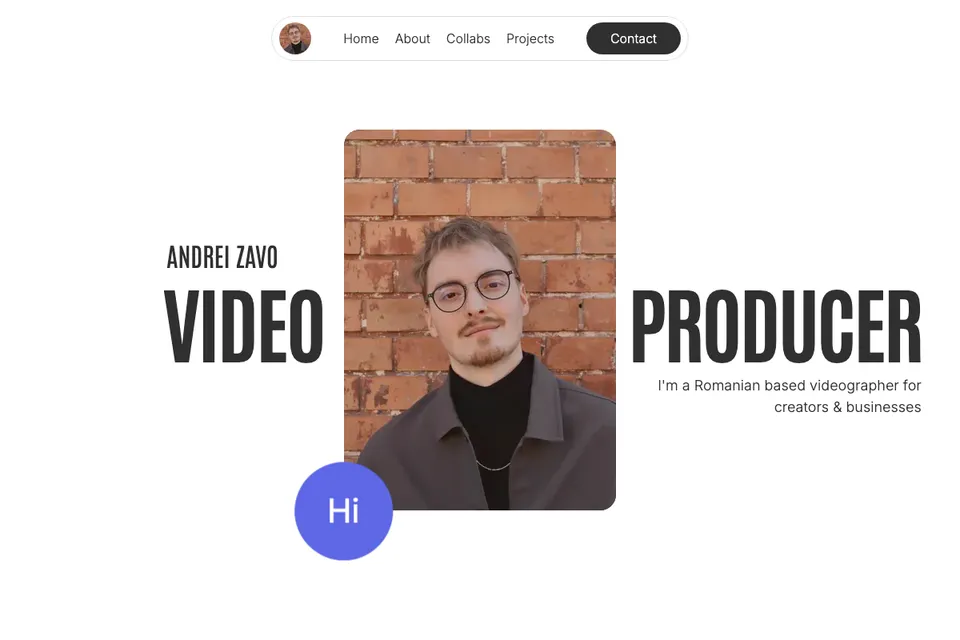
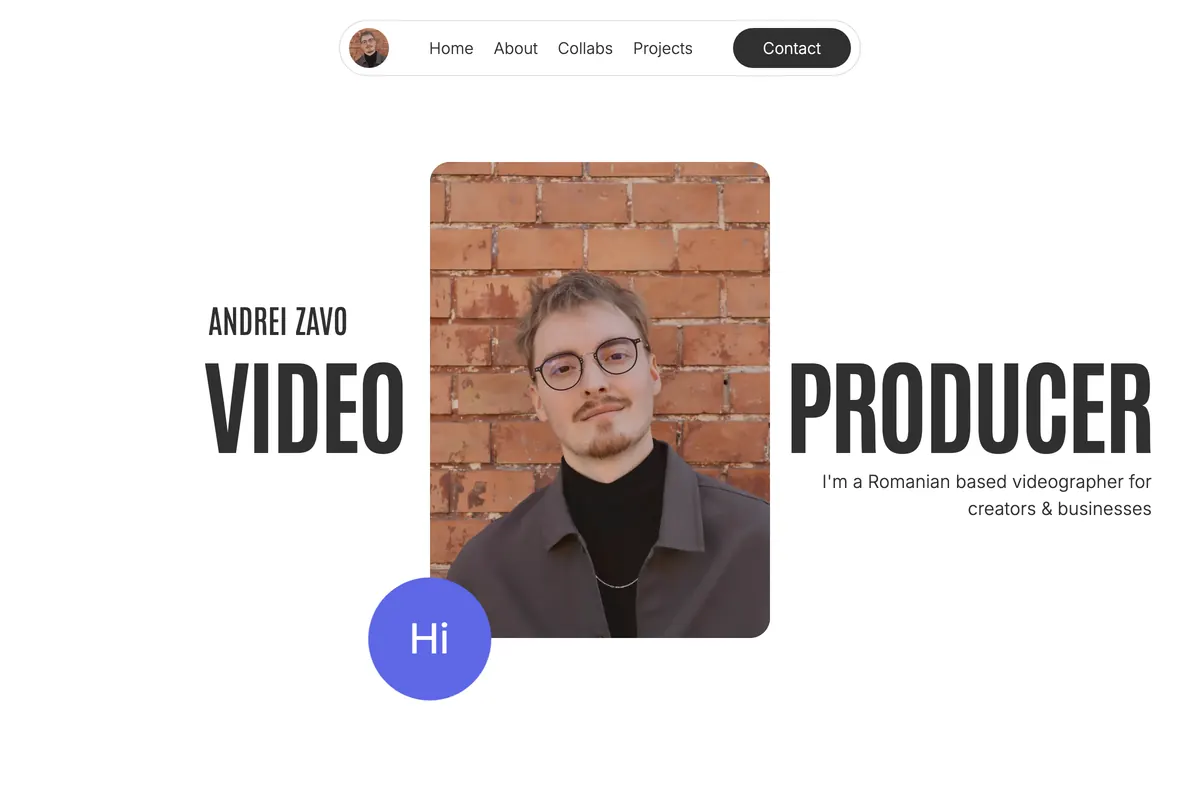
docs: much shorter README with a screenshot layout

diff --git a/README.md b/README.md
@@ -1,145 +1,63 @@
 # zavocreates.com
 
-Andrei Zavo's videographer portfolio, rebuilt from a Framer site into code: an Astro static site served by one Cloudflare Worker, with a contact form that checks for spam with Turnstile and labels each enquiry with a Workers AI model before emailing it.
+Andrei Zavo's videographer portfolio, moved from Framer to code by AI agents (Claude Code) and checked against the original site with tests.
 
-The work was done by AI agents (Claude Code) from a written spec and plan, and checked by tests that compare against the original Framer site. This README explains what was built, how the AI output was verified, and what is still open.
+**Live:** [zavocreates.com](https://zavocreates.com) · **Stack:** Astro, one Cloudflare Worker, Turnstile, Workers AI, Resend
 
-## Problem and result
+<table>
+  <tr>
+    <td width="70%"><img src="docs/img/home-desktop.webp" alt="Home page on desktop: the name Andrei Zavo, the words Video Producer and a portrait"></td>
+    <td width="30%"><img src="docs/img/home-phone.webp" alt="Home page on a phone"></td>
+  </tr>
+</table>
 
-**Problem.** The site is three pages (`/`, `/pricing`, `/pricing-ro`) on a paid Framer plan. Andrei wanted the same look and motion, free hosting, and a contact form that does not depend on Framer.
+## Results
 
-**Result.** The rebuild is live at https://zavocreates.com since 2026-11-12, tested locally, in CI and against the live domain. Remaining go-live steps are in the [go-live checklist](docs/go-live.md).
-
-- Same pages, text and animations as the Framer site. Every animation value is taken from the Framer project and checked by unit tests; the pages are compared with screenshots of the live site in their settled state, with moving parts hidden. Animations are not compared frame by frame.
-- Lighthouse category scores equal to or higher than Framer's on every page and preset, and 28% to 46% less data transferred per page load ([docs/results](docs/results/README.md)).
-- Contact form with Turnstile, AI triage and email delivery. Without JavaScript the form shows the email address and phone number instead.
-
-### Cost
-
-| | Before | After |
+| | Framer | Now |
 | --- | --- | --- |
-| Site | Framer plan: $15 a month ($180 a year) | 0: free plans only (below) |
-| Domain | renewal at GoDaddy | unchanged |
+| Hosting cost | $15 a month | **$0** (free plans only) |
+| Lighthouse performance, mobile `/` | 82 | **94** |
+| Lighthouse accessibility, `/` and `/pricing` | 92 and 89 | **100** |
+| Data per page load, mobile `/` | 1.90 MiB | **1.36 MiB** |
 
-Free plans used after the move:
+Same pages, text and animations as the Framer site. Full Lighthouse data: [docs/results](docs/results/README.md).
 
-- Cloudflare Workers Free (site and `/api/contact`)
-- Workers AI free daily allowance (triage)
-- Cloudflare Turnstile (spam check)
-- Cloudflare DNS Free plan
-- Cloudflare Web Analytics (cookieless)
-- Resend free tier, 3,000 emails a month and 100 a day (email delivery)
-- GitHub Actions, free for public repositories, including the macOS job
+<table>
+  <tr>
+    <td><img src="docs/img/projects-desktop.webp" alt="Featured projects section"></td>
+    <td><img src="docs/img/pricing-desktop.webp" alt="Pricing page with four packages"></td>
+  </tr>
+  <tr>
+    <td><img src="docs/img/contact-desktop.webp" alt="Contact form"></td>
+    <td align="center"><img src="docs/img/pricing-phone.webp" alt="Romanian pricing page on a phone" width="45%"></td>
+  </tr>
+</table>
 
-### Lighthouse: Framer vs rebuild
+## How it works
 
-Lighthouse 13.6.0, median of 3 runs per page and preset, default simulated throttling. Framer measured on the live site on 2026-11-10, the rebuild on the local Worker preview on 2026-11-11. Full data and method: [docs/results/README.md](docs/results/README.md).
+![Visitor to Cloudflare edge to one Worker, which serves the static site and POST /api/contact (Turnstile, Workers AI, Resend, Gmail). Build: Framer project to content JSON to Astro.](docs/architecture.svg)
 
-| Page | Preset | Site | Perf. | Access. | Best pr. | SEO | FCP | LCP | TBT | CLS |
-| --- | --- | --- | --- | --- | --- | --- | --- | --- | --- | --- |
-| `/` | mobile | Framer | 82 | 92 | 100 | 100 | 1.19 s | 1.19 s | 614 ms | 0.003 |
-| `/` | mobile | rebuild | 94 | 100 | 100 | 100 | 0.92 s | 3.11 s | 0 ms | 0.001 |
-| `/pricing` | mobile | Framer | 93 | 89 | 100 | 100 | 1.18 s | 1.18 s | 295 ms | 0 |
-| `/pricing` | mobile | rebuild | 100 | 100 | 100 | 100 | 0.92 s | 0.92 s | 0 ms | 0 |
-| `/` | desktop | Framer | 100 | 92 | 100 | 100 | 0.50 s | 0.50 s | 12 ms | 0.002 |
-| `/` | desktop | rebuild | 100 | 100 | 100 | 100 | 0.26 s | 0.56 s | 0 ms | 0 |
-| `/pricing` | desktop | Framer | 100 | 89 | 100 | 100 | 0.48 s | 0.48 s | 12 ms | 0 |
-| `/pricing` | desktop | rebuild | 100 | 100 | 100 | 100 | 0.25 s | 0.25 s | 0 ms | 0 |
+- **Content.** Every string, design token and animation value was read from the Framer project, not scraped from its HTML, which contains text visitors never see. It lives in `content/*.json`.
+- **Site.** Astro builds static HTML. Motion and Lenis reproduce Framer's animations. Everything works without JavaScript, and nothing moves under reduced motion.
+- **Contact form.** Turnstile stops bots. A Workers AI model summarises and labels each message. Resend delivers two emails in one Gmail thread: private notes first, then the visitor's message, so a reply quotes only the visitor. Nothing is stored.
 
-One number is worse: LCP on `/` mobile, 3.11 s against Framer's 1.19 s. The 756 KB animated noise GIF (the same file Framer serves) shares bandwidth with the hero portrait in Lighthouse's simulation. The performance score is still higher because blocking time dropped from 614 ms to 0 ms.
+## How the AI's work was checked
 
-Transfer size per page load (mobile): `/` 1.90 MiB on Framer, 1.36 MiB rebuilt; `/pricing` 1.66 MiB on Framer, 0.90 MiB rebuilt.
+- **Visual tests:** 9 screenshots of the live Framer site (3 pages × 3 widths) are compared with the rebuild, with at most 2% of pixels allowed to differ.
+- **Worker tests:** 29 tests of the contact API in the Workers runtime: spam check, missing secrets, bad input, AI failures, email escaping.
+- **Lighthouse budgets in CI:** the build fails if a score drops below Framer's.
+- **Plus:** end-to-end tests (routes, SEO, form, no-JS, reduced motion) and a link check on every pull request.
 
-### Screenshots
-
-Captured from the built site (`npm run preview`).
-
-<p>
-  <img src="docs/img/home-desktop.webp" alt="Home page at desktop width: hero with the name Andrei Zavo, the words Video Producer and a portrait" width="480">
-  <img src="docs/img/pricing-desktop.webp" alt="Pricing page at desktop width: services heading and three numbered reasons" width="480">
-  <img src="docs/img/home-phone.webp" alt="Home page at phone width" width="195">
-</p>
-
-## Architecture
-
-![Request path: visitor, Cloudflare edge, one Worker serving static assets and POST /api/contact, which calls Turnstile, Workers AI and Resend, delivering to Andrei's Gmail. Build path: Framer project read through MCP into content JSON, Astro build into ./dist. CI on GitHub Actions, ubuntu and macOS.](docs/architecture.svg)
-
-- **Build.** `content/*.json` holds every visible string, design token and animation value from the Framer project. Zod schemas validate it during `astro build`, which writes static HTML to `./dist`.
-- **Runtime.** One Worker (`worker/index.ts`) serves `./dist` as static assets and handles `POST /api/contact`: validate the fields, verify the Turnstile token, ask Workers AI for a structured label, send it through Resend as two emails in one Gmail conversation: first private notes (the AI's summary, budget and suggested reply, Reply-To Andrei), then the visitor's message (Reply-To the visitor), threaded under the notes by Message-ID. Gmail's Reply answers the newest email, so a reply quotes only what the visitor wrote. If the AI call fails, only the visitor's message is sent. Messages are never stored.
-- **Motion.** Motion (motion.dev) and Lenis, driven only by `content/motion.json`. Nothing moves under `prefers-reduced-motion: reduce`, and every element is visible without JavaScript. The tablet and phone menu opens with reduced motion too, and without JavaScript it is shown open.
-
-Why each piece was chosen: [docs/decisions.md](docs/decisions.md).
-
-## How AI was used and verified
-
-Claude Code agents implemented the plan in [`docs/superpowers/plans/`](docs/superpowers/plans/2026-11-10-zavocreates-framer-to-cloudflare.md) task by task, from the spec in [`docs/superpowers/specs/`](docs/superpowers/specs/2026-11-10-zavocreates-framer-to-cloudflare-design.md). Each task was reviewed before the next started. Project rules for agents are in [`CLAUDE.md`](CLAUDE.md). The checks below are what makes the output trustworthy, not the agent's own report.
-
-### 1. Content extraction through the Framer MCP connector
-
-An agent read the Framer project with six read-only programs (`docs/extraction/programs/`). Every run reported `changedNodeCount: 0`, so the project was not modified. The raw results are kept in `docs/extraction/raw/`, and `transform.py` turns them into `content/*.json`.
-
-The pitfall: Framer's published HTML contains text visitors never see. On `/pricing-ro`, FAQ 3 reads "Nu prea — voi veniți cu povestea voastră" in the HTML, but a visitor who opens it reads "Nu chiar. Voi veniți cu povestea voastră". Scraping would have shipped the wrong line. `transform.py` reads each string by Framer node id or component control and exits if a node it reads is hidden. Unit tests check that known hidden strings (for example "Interaction design and micro-animations") appear nowhere in `content/`. Details: [docs/extraction/README.md](docs/extraction/README.md).
-
-### 2. Visual regression against the Framer site
-
-Before anything changed, screenshots of the live Framer site were captured for 3 pages at 3 breakpoints (1200, 810 and 390 px wide) and committed to `tests/visual/baseline/`. Each one is scroll-stitched: the page is visited in 900 px steps and each step waits for counters, reveals and sticky images to settle. The rebuild is captured the same way and compared with a maximum of 2% differing pixels. Measured differences when the pages were built: 0.35%, 0.37% and 0.52% for the three home captures, under 0.09% for the six pricing captures. The tolerance was never raised, and the baselines are never regenerated.
-
-### 3. Worker tests
-
-29 tests run in the Workers runtime (`tests/worker/contact.test.ts`) with Workers AI, Turnstile and Resend stubbed. They check these properties:
-
-- A failed Turnstile check returns 403 and makes no AI call and no email call. So does a token issued for another `action` or hostname.
-- A missing `TURNSTILE_SECRET` or `RESEND_API_KEY` returns 503 and logs only the variable name. Cloudflare's Turnstile test secret is refused (503) on any host but localhost.
-- Invalid fields return 400; a body over 20 KB returns 413, including a streamed body without `Content-Length`; other content types return 415; `GET` returns 405.
-- The visitor's message is sent to the model as JSON data inside a delimited block, in JSON mode. Output that fails the schema is retried once.
-- If the AI throws or returns invalid output twice, no notes email is sent; the visitor's message still goes out. A failed notes email or Message-ID lookup is logged and the message goes out unthreaded. A Resend 429 is retried once.
-- HTML in the message and in the AI's text is escaped in the email; CR and LF are stripped from the subject, which carries no triage (the visitor sees it as "Re:"); `reply_to` is the visitor's address on the message and Andrei's on the notes.
-- A 5,000-character Romanian message with emoji arrives intact.
-- The no-JS form path answers with a 303 redirect to `/#contact-sent` or `/#contact-error`.
-
-### 4. Triage eval (pending)
-
-`evals/triage/` holds 20 hand-written enquiries (8 English, 8 Romanian, 4 spam or off-topic, one of them a prompt-injection attempt) with the expected category, language and urgency. `run.ts` sends them through the Worker's own `triage()` function and reports per-field accuracy, schema-valid rate, latency and retries. The rule: at least 90% category accuracy and 100% schema-valid output.
-
-It has not been run yet, because it needs a Cloudflare account; it runs at go-live. Until then the model is a provisional choice, `@cf/ibm-granite/granite-4.0-h-micro`. Candidates and results: [evals/triage/results.md](evals/triage/results.md).
-
-### 5. Lighthouse budgets in CI
-
-`lighthouserc.json` fails the build if any mobile score drops below the higher of a fixed floor and Framer's own median, so the rebuild can never score below the site it replaces. `/` must reach performance 0.90, accessibility 0.95, best practices 1.00 and SEO 1.00; `/pricing` must reach 0.93, 0.95, 1.00 and 1.00. The margin on `/` performance is small: the latest three local runs scored 91, 98 and 93.
-
-### Other checks
-
-End-to-end tests (Playwright) cover routes and the 404 page, SEO tags and `hreflang`, the contact form, the page with JavaScript off, and `prefers-reduced-motion: reduce`. A link check runs over every built page, external links included.
+The agents worked from a written [spec](docs/superpowers/specs/2026-11-10-zavocreates-framer-to-cloudflare-design.md) and [plan](docs/superpowers/plans/2026-11-10-zavocreates-framer-to-cloudflare.md), one reviewed task at a time. Why each choice was made: [docs/decisions.md](docs/decisions.md).
 
 ## Run locally
 
-Needs Node 22.23.4 or newer (`.nvmrc`; Astro 7.4.8 requires it).
+Node 22.23.4+.
 
 ```sh
 npm install
-npx playwright install chromium
-cp .dev.vars.example .dev.vars   # dummy local secrets, git-ignored
+npm run build && npm run preview   # http://localhost:8787
+npm run test:e2e
 ```
 
-| Command | What it does |
-| --- | --- |
-| `npm run dev` | Astro dev server |
-| `npm run build` | build the static site into `./dist` |
-| `npm run check` | type-check: `astro check` and `tsc --noEmit` |
-| `npm run preview` | `wrangler dev` on http://localhost:8787, serving `./dist` and the Worker (build first) |
-| `npm run test:unit` | Vitest, `tests/unit/` |
-| `npm run test:worker` | Vitest in the Workers runtime, `tests/worker/` |
-| `npm run test:e2e` | Playwright, `tests/e2e/` (builds and starts the preview itself); filter with `npm run test:e2e -- smoke` |
-| `npm run test:visual` | Playwright visual tests against the Framer baselines, `tests/visual/` |
-| `npm run check:links` | link check over `./dist` |
-| `npm run lhci` | Lighthouse CI |
-
-Build-time variables (see `.env.example`): `PUBLIC_TURNSTILE_SITE_KEY` (unset: Cloudflare's always-pass test key) and `PUBLIC_CF_ANALYTICS_TOKEN` (unset: no analytics beacon).
-
-## Status / go-live
-
-Built and tested; not live. The remaining steps, including the triage eval run and the open questions for Andrei, are in [docs/go-live.md](docs/go-live.md).
-
-## UX / frontend
-
-To be written with Andrei.
+All commands and setup: [CLAUDE.md](CLAUDE.md). Go-live steps: [docs/go-live.md](docs/go-live.md).
